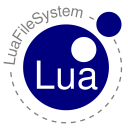
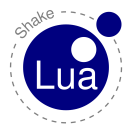
Adding examples and references to Leg and LPeg

Changed region(s): [[0.0312, 0.0312, 0.6875, 0.5312]]

diff --git a/doc/us/manual.html b/doc/us/manual.html
@@ -31,6 +31,7 @@
 				<li><a href="index.html#overview">Overview</a></li>
 				<li><a href="index.html#status">Status</a></li>
 				<li><a href="index.html#download">Download</a></li>
+				<li><a href="index.html#dependencies">Dependencies</a></li>
 				<li><a href="index.html#history">History</a></li>
 				<li><a href="index.html#credits">Credits</a></li>
 				<li><a href="index.html#contact">Contact us</a></li>
@@ -66,7 +67,7 @@ test progress and to use Lua comments to inform what is being tested to whoever 
 this approach may be too crude for those wanting to test more than one module at a time or to have a more detailed view
 of the results.</p>
 
-<p>Shake assumes that the tests have been implemented for the above scenartio but offers a transparent test engine
+<p>Shake assumes that the tests have been implemented for the above scenario but offers a transparent test engine
 for those wanting the execution of the tests in batch mode or those wanting to get an overview of the various results.
 The Shake engine can inform not only the number of tests, failures and errors found in a group of test scripts, but it
 can infer information about the test context using the output and comments associated with the <code>assert()</code>
@@ -74,7 +75,10 @@ calls.</p>
 
 <p>The main characteristic of Shake is being transparent, which means that the module authors and test writers do not have
 to be aware that tests are going to be run with Shake. As long as the tests call <code>assert()</code> Shake can obtain
-quite a lot of information from the source and run time execution.</p>
+quite a lot of information from the source and run time execution. This is done through the pre-processing of the tests source
+code using <a href="http://leg.luaforge.net/">Leg</a> (and therefore
+<a href="http://www.inf.puc-rio.br/~roberto/lpeg.html">LPeg</a>) to replace every call to <code>assert()</code>
+with one that can extract information about the expressions, values and operators involved in the assertion.</p>
 
 <p>Another common alternative to testing is the one adopted by test frameworks like <a href="http://luaforge.net/projects/lunit/">lunit</a> and
 <a href="http://luaforge.net/projects/luaunit/">luaunit</a>, which offer a quite sophisticated API for those test
@@ -88,7 +92,7 @@ displays nice error messages (provided in the <code>assert()</code> call). Unfor
 expression is true or false and report that as an error in the second case.</p>
 
 <p>This makes the test scripts much simpler, but also means that you have to provide decent error messages for every
-assertion and that once one assertion fails, your test stops running. Another disavantage of a simple <code>assert()</code>
+assertion and that once one assertion fails, your test stops running. Another disvantage of a simple <code>assert()</code>
 call is that it is does not provide much information about what caused the error. For example, in an assertion like:</p>
 
 <pre class="example">
@@ -122,22 +126,31 @@ as an standard module and offers an API for test execution and for accessing the
 <p>The Shake source distribution contains two components. The first one is a Lua module and command line runner,
 the second is a CGILua application runner.</p>
 
-<p>If you are using Unix you can install the command line runner and the Shake module
-using the command below (Where the optional <code>PREFIX</code> parameter assumes
+<p>The easiest way to install the Shake module and command line runner is using
+<a href="http://www.luarocks.org">LuaRocks</a>:</p>
+
+<pre class="example">
+luarocks install shake
+</pre>
+
+<p>If you prefer to install Shake manually and you are using Unix then you can install the command line runner
+and the Shake module using the command below (where the optional <code>PREFIX</code> parameter assumes
 <code>/usr/local</code> as default):</p>
 
 <pre class="example">
 make <em>PREFIX=prefix_path</em> install
 </pre>
 
-<p>After you have the Shake engine installed you can optionally install the CGILua application using a similar command:</p>
+<p>After you have the Shake engine installed you can optionally install the CGILua application using a similar command
+(note that the CGILua application cannot be installed by using LuaRocks):</p>
 
 <pre class="example">
 make <em>KEPLER_PREFIX=prefix_path</em> install_app
 </pre>
 
-<p>If you are using Kepler in Windows you would have to copy the source files to your <em>KEPLER_BIN</em>,
-<em>KEPLER_LUA</em> (and <em>CGILUA_APPS</em> if you want to use the Shake CGILua application) directories as the example
+<p>Finally, if you are using Kepler in Windows you would have to copy the Shake source files to your
+<em>KEPLER_BIN</em>, <em>KEPLER_LUA</em>
+(and <em>CGILUA_APPS</em> if you want to use the Shake CGILua application) directories as the example
 below shows:</p>
 
 <pre class="example">
@@ -254,13 +267,28 @@ the succesfull ones</p>
 
 <h2><a name="reference"></a>Reference</h2>
 
-<p>For those interested in more control over the runner and the report, Shake offers the following functions:</p>
+<p>For those interested in more control over the runner and the report, Shake offers the following functions
+(check the <a href="examples.html">examples</a> for more information):</p>
 
 <dl class="reference">
-    <dt><strong><code>runner()</code></strong></dt>
-    <dd>
-    Returns a Shake runner that offers the functions <code>test(filename)</code> and <code>summary()</code>
-    </dd>
+	<dt><strong><code>shake.runner()</code></strong></dt>
+	<dd>
+	Returns a Shake runner that offers the functions:
+	<dl>
+	    <dt><strong><code>runner.test(filename)</code></strong></dt>
+	    <dd>
+	    Executes a test suite and stores the results in the <code>runner.results</code> table.
+	    </dd>
+	    <dt><strong><code>runner.summary()</code></strong></dt>
+	    <dd>
+	    Outputs a summary of the results from the <code>runner.results</code> table.
+	    </dd>
+	</dl>
+	</dd>
+	<dt><strong><code>shake.isterminal(expression)</code></strong></dt>
+	<dd>
+	Returns a boolean value indicating if the expression refers to a terminal symbol.
+	</dd>
 </dl>
 
 </div> <!-- id="content" -->
@@ -269,7 +297,7 @@ the succesfull ones</p>
 
 <div id="about">
 	<p><a href="http://validator.w3.org/check?uri=referer">Valid XHTML 1.0!</a></p>
-	<p><small>$Id: manual.html,v 1.2 2007/12/07 21:42:04 carregal Exp $</small></p>
+	<p><small>$Id: manual.html,v 1.3 2007/12/13 21:49:11 carregal Exp $</small></p>
 </div> <!-- id="about" -->
 
 </div> <!-- id="container" -->

diff --git a/doc/us/examples.html b/doc/us/examples.html
@@ -31,6 +31,7 @@
 				<li><a href="index.html#overview">Overview</a></li>
 				<li><a href="index.html#status">Status</a></li>
 				<li><a href="index.html#download">Download</a></li>
+				<li><a href="index.html#dependencies">Dependencies</a></li>
 				<li><a href="index.html#history">History</a></li>
 				<li><a href="index.html#credits">Credits</a></li>
 				<li><a href="index.html#contact">Contact us</a></li>
@@ -58,7 +59,80 @@
 
 <h2><a name="example"></a>Examples</h2>
 
-<h3>Running Shake</h3>
+<p>Here we show how to use the Shake API to implement runners. Note that if you just want to
+execute tests, the built in runners (command line and CGILua app) may be enough. On the other hand,
+if you need to show more detailed information about the tests results or if you want to use Shake as part
+of your application runtime, then you will need to use the Shake API.</p>
+
+<h3>A simple runner</h3>
+
+<p>The minimal Shake runner would be like:</p>
+
+<pre class="example">
+require "shake"
+local run = shake.runner()
+run:test("somefile.lua")
+print (run:summary())
+</pre>
+
+<p>This would be basically equivalent to the command line Shake runner, and if you want to report more
+details than the default summary does, you will need to drill down the results using something like:</p>
+
+<pre class="example">
+function ReportModules(run)
+   local results = run.results
+   for cs, suite in ipairs(results.suites) do
+       -- displays information about the suite.title
+       if suite.error then
+	-- displays information about the suite error
+       elseif suite.failed > 0 then
+	-- displays information about the suite.failed results
+       else
+	-- displays information about the suite.passed and suite.failed results
+       end
+   end
+end
+</pre>
+
+<p>For even more details, you may want to inspect each test result and decide what to show:</p>
+
+<pre class="example">
+function ReportModule(run)
+  local results = run.results
+  for _, suite in ipairs(results.suites) do
+    if suite.error == -1 then
+      -- displays information about the error
+    else
+      for _, context in ipairs(suite.contexts) do
+        if next(context.tests) then
+          if context.output[1] ~= "" or context.comments then
+            -- displays information about the context
+            for _, output in ipairs(context.output) do
+              if output and output ~= "" then
+                -- using context.output
+              end
+            end
+            if context.comments and context.comments ~= "" then
+              --  or context.comments
+            end
+          end
+          for _, test in ipairs (context.tests) do
+	  local linenumber = test.linenumber or "???"
+	  local op = test.op
+	   local val2 = tostring(test.val2)
+	  -- when there is no comparision operator, assume that this is an assert(x) case
+	  if not op then
+	    val2 = "True value" -- just to diferentiate from the Lua "true"
+	  end
+	  if not op or op == "==" then
+	    op = ""
+	  end
+	  -- displays information about the test result using
+	  -- linenumber, test.exp1, op, val2, test.val1 and test.msg
+	end
+       end
+    end
+end
 
 </div> <!-- id="content" -->
 
@@ -66,7 +140,7 @@
 
 <div id="about">
 	<p><a href="http://validator.w3.org/check?uri=referer">Valid XHTML 1.0!</a></p>
-	<p><small>$Id: examples.html,v 1.1 2007/11/16 21:32:28 carregal Exp $</small></p>
+	<p><small>$Id: examples.html,v 1.2 2007/12/13 21:49:11 carregal Exp $</small></p>
 </div> <!-- id="about" -->
 
 </div> <!-- id="container" -->

diff --git a/doc/us/index.html b/doc/us/index.html
@@ -3,7 +3,7 @@
 <html>
 <head>
 	<title>Shake</title>
-    <link rel="stylesheet" href="doc.css" type="text/css"/>
+	<link rel="stylesheet" href="doc.css" type="text/css"/>
 	<meta http-equiv="Content-Type" content="text/html; charset=UTF-8"/>
 </head>
 
@@ -13,10 +13,8 @@
 
 <div id="product">
 	<div id="product_logo">
-        <a href="http://shake.luaforge.net">
-		<img alt="Shake Logo" src="shake.png"/>
-	    </a>
-    </div>
+		<a href="http://shake.luaforge.net"><img alt="Shake Logo" src="shake.png"/></a>
+	</div>
 	<div id="product_name"><big><strong>Shake</strong></big></div>
 	<div id="product_description">A Simple Lua Test Engine</div>
 </div> <!-- id="product" -->
@@ -31,6 +29,7 @@
 				<li><a href="index.html#overview">Overview</a></li>
 				<li><a href="index.html#status">Status</a></li>
 				<li><a href="index.html#download">Download</a></li>
+				<li><a href="index.html#dependencies">Dependencies</a></li>
 				<li><a href="index.html#history">History</a></li>
 				<li><a href="index.html#credits">Credits</a></li>
 				<li><a href="index.html#contact">Contact us</a></li>
@@ -58,7 +57,7 @@
 
 <h2><a name="overview"></a>Overview</h2>
 
-<p>Shake is a simple test engine for <a href="http://www.lua.org">Lua</a> that assumes
+<p>Shake is a simple and transparent test engine for <a href="http://www.lua.org">Lua</a> that assumes
 that tests only use standard <code>assert</code> and <code>print</code> calls.
 If you are looking for a <a href="http://en.wikipedia.org/wiki/XUnit">xUnit</a> style framework,
 check <a href="http://luaforge.net/projects/lunit/">lunit</a> and
@@ -76,6 +75,14 @@ check <a href="http://luaforge.net/projects/lunit/">lunit</a> and
 <p>Shake source can be downloaded from its
 <a href="http://luaforge.net/projects/shake/files">Lua Forge</a> page.</p>
 
+<h2><a name="dependencies"></a>Dependencies</h2>
+
+<p>Shake depends on two modules:</p>
+
+<ul>
+	<li><a href="http://www.inf.puc-rio.br/~roberto/lpeg.html"><strong>LPeg 0.7</strong></a></li>
+	<li><a href="http://leg.luaforge.net/"><strong>Leg 0.1.2</strong></a></li>
+</ul>
 <h2><a name="history"></a>History</h2>
 
 <dl class="history">
@@ -108,7 +115,7 @@ Comments are welcome!</p>
 
 <div id="about">
 	<p><a href="http://validator.w3.org/check?uri=referer">Valid XHTML 1.0!</a></p>
-	<p><small>$Id: index.html,v 1.2 2007/12/07 21:42:04 carregal Exp $</small></p>
+	<p><small>$Id: index.html,v 1.3 2007/12/13 21:49:11 carregal Exp $</small></p>
 </div> <!-- id="about" -->
 
 </div> <!-- id="container" -->

diff --git a/doc/us/license.html b/doc/us/license.html
@@ -31,6 +31,7 @@
 				<li><a href="index.html#overview">Overview</a></li>
 				<li><a href="index.html#status">Status</a></li>
 				<li><a href="index.html#download">Download</a></li>
+				<li><a href="index.html#dependencies">Dependencies</a></li>
 				<li><a href="index.html#history">History</a></li>
 				<li><a href="index.html#credits">Credits</a></li>
 				<li><a href="index.html#contact">Contact us</a></li>
@@ -112,7 +113,7 @@ SOFTWARE.</p>
 
 <div id="about">
 	<p><a href="http://validator.w3.org/check?uri=referer">Valid XHTML 1.0!</a></p>
-	<p><small>$Id: license.html,v 1.1 2007/11/16 21:32:28 carregal Exp $</small></p>
+	<p><small>$Id: license.html,v 1.2 2007/12/13 21:49:11 carregal Exp $</small></p>
 </div><!-- id="about" -->
 
 </div><!-- id="container" -->
